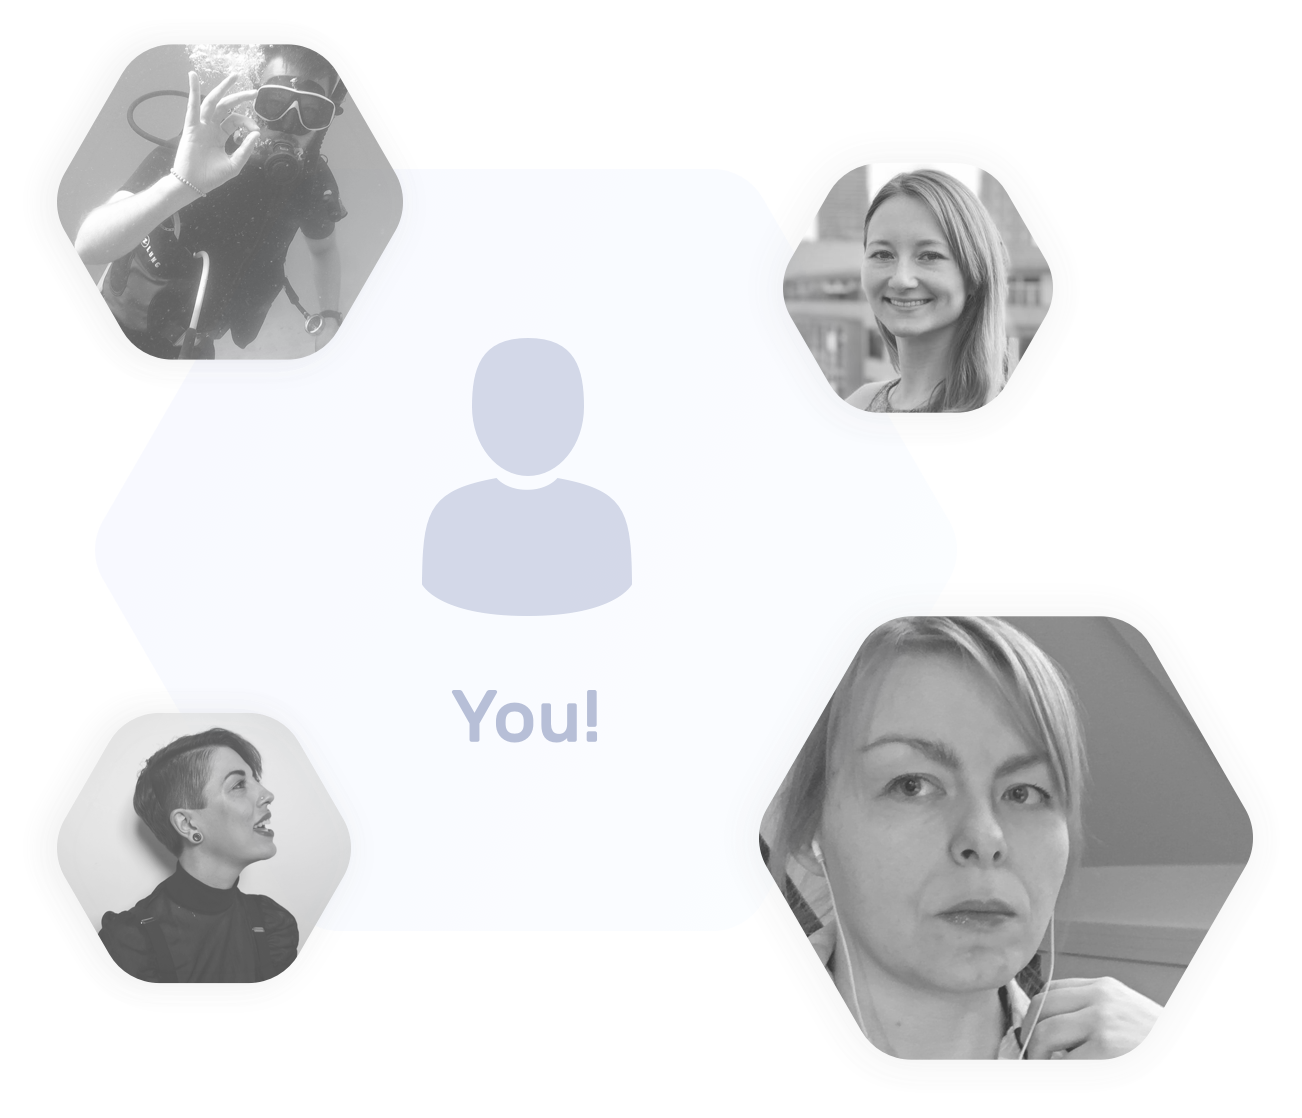
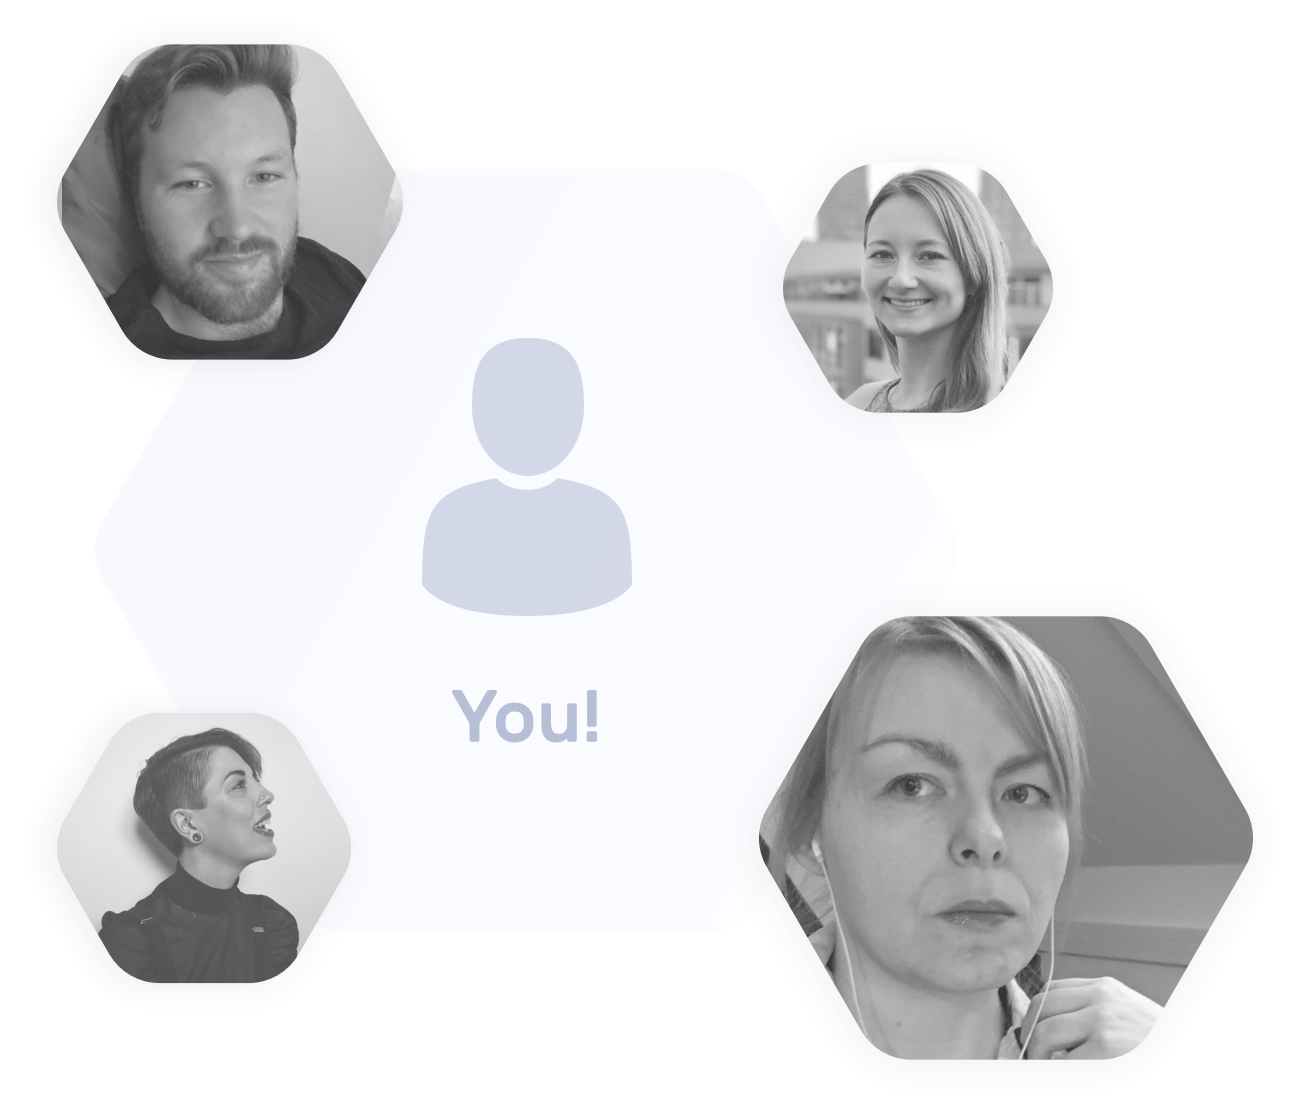
added images to writers program page

Changed region(s): [[0.0307, 0.0304, 0.3072, 0.3345]]

diff --git a/pages/writers-program/index.html b/pages/writers-program/index.html
@@ -40,7 +40,7 @@ assets:
         <ul>
           <li>
             <div class="heading">
-              <!-- <img src="{{ BASE_PATH }}/v3/assets/img/writers-program/sample.png" alt="sample"/> -->
+              <img src="{{ BASE_PATH }}/v3/assets/img/writers-program/wyd@2x.png" alt="What you do"/>
               <h3>What you do</h3>
             </div>
             <ul>
@@ -49,7 +49,7 @@ assets:
           </li>
           <li>
             <div class="heading">
-              <!-- <img src="{{ BASE_PATH }}/v3/assets/img/writers-program/sample.png" alt="sample"/> -->
+              <img src="{{ BASE_PATH }}/v3/assets/img/writers-program/wwd@2x.png" alt="What we do"/>
               <h3>What we do</h3>
             </div>
             <ul>
@@ -66,7 +66,7 @@ assets:
           </li>
           <li>
             <div class="heading">
-              <!-- <img src="{{ BASE_PATH }}/v3/assets/img/writers-program/sample.png" alt="sample"/> -->
+              <img src="{{ BASE_PATH }}/v3/assets/img/writers-program/guidelines@2x.png" alt="Guidelines"/>
               <h3>Guidelines</h3>
             </div>
             <ul>
@@ -95,7 +95,7 @@ assets:
           </li>
           <li>
             <div class="heading">
-              <!-- <img src="{{ BASE_PATH }}/v3/assets/img/writers-program/sample.png" alt="sample"/> -->
+              <img src="{{ BASE_PATH }}/v3/assets/img/writers-program/incentives@2x.png" alt="Incentives"/>
               <h3>Incentives</h3>
             </div>
             <ul>
@@ -144,12 +144,12 @@ assets:
                 <input type="text" name="last_name" id="last-name" placeholder="Enter your last name"/>
               </div>
               <div class="full">
-                <label for="company">Company</label>
-                <input type="text" name="company" id="company" placeholder="Enter your company name"/>
-              </div>
-              <div class="full">
                 <label for="email">Email</label>
                 <input type="text" name="email" id="email" placeholder="Enter your business email"/>
+              </div>
+              <div class="full">
+                <label for="company">Company</label>
+                <input type="text" name="company" id="company" placeholder="Enter your company name"/>
               </div>
               <div class="full">
                 <label for="gdoc">Link to your Google document</label>

diff --git a/_includes/footer.html b/_includes/footer.html
@@ -44,6 +44,7 @@
                                 <ul>
                                     <li{% include fn/menuClassActive.fn s="Customers" tag="" %}><a href="{{ BASE_PATH }}/customers">Customers</a></li>
                                     <li><a href="http://discourse.snowplowanalytics.com/" target="_blank">Discourse</a></li>
+                                    <li><a href="https://snowplowanalytics.com/writers-program/">Writer's Program</a></li>
                                     <li{% include fn/menuClassActive.fn s="open-source" tag="" %}><a href="{{ BASE_PATH }}/products/snowplow-open-source">Open Source</a></li>
                                     <li><a href="https://github.com/snowplow" target="_blank">GitHub</a></li>
                                     <li><a href="https://www.meetup.com/topics/snowplow/" target="_blank">MeetUp</a></li>
